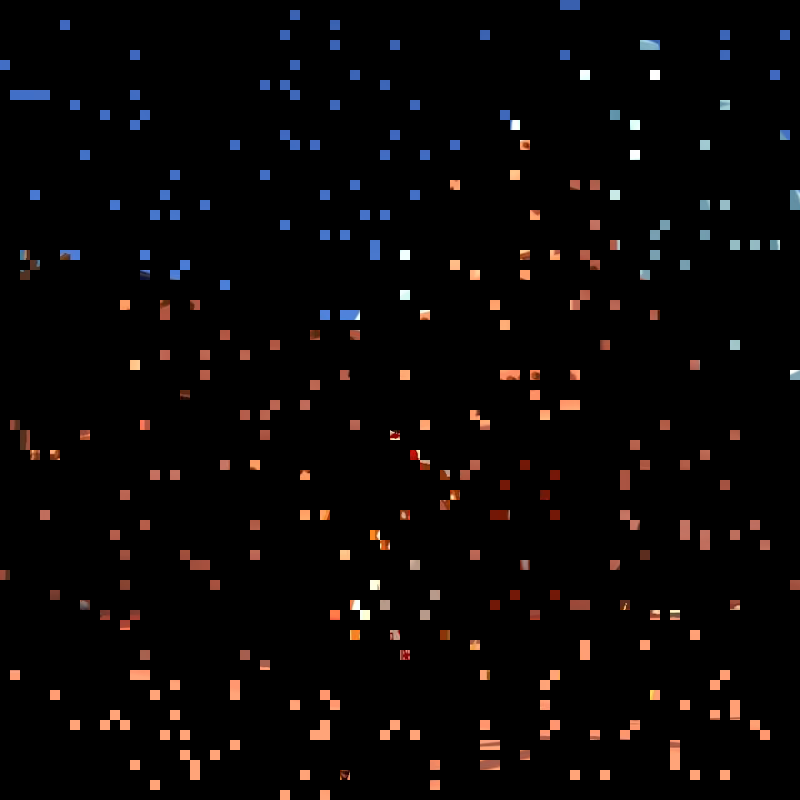
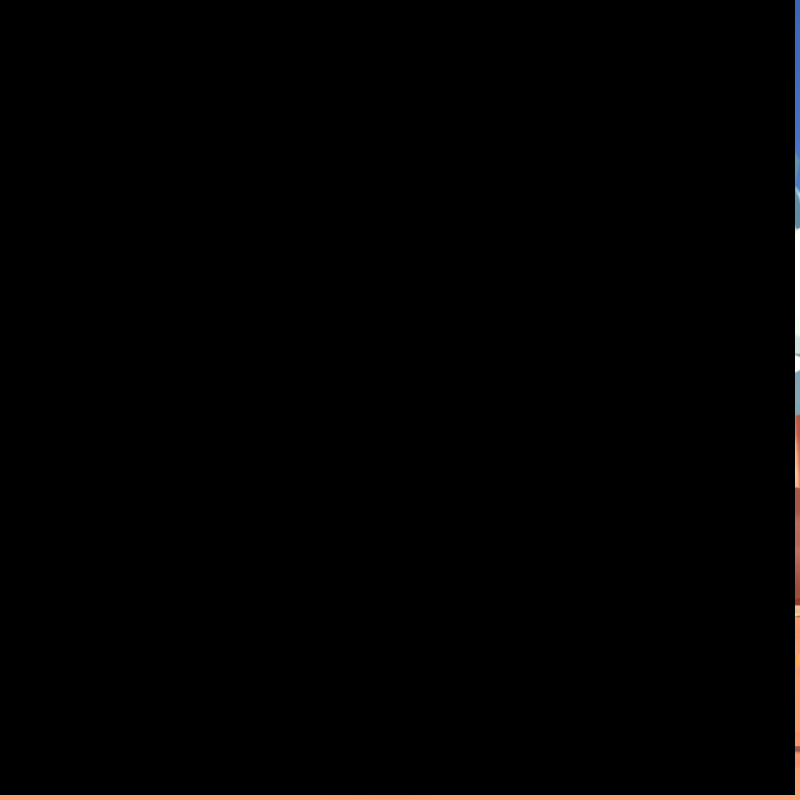
int4

diff --git a/app/templates/index.html b/app/templates/index.html
@@ -16,6 +16,7 @@
       min-height: 100vh;
     }
     #container {
+      overflow: hidden;
       position: relative;
       display: inline-block;
       width: {{ width }}px;

diff --git a/config.py b/config.py
@@ -7,6 +7,6 @@ load_dotenv()
 
 class Config:
     UPLOAD_FOLDER = 'uploads'
-    ROWS = 80
-    COLS = 80
+    ROWS = 16
+    COLS = 16
     PROBABILITY = 0.95
